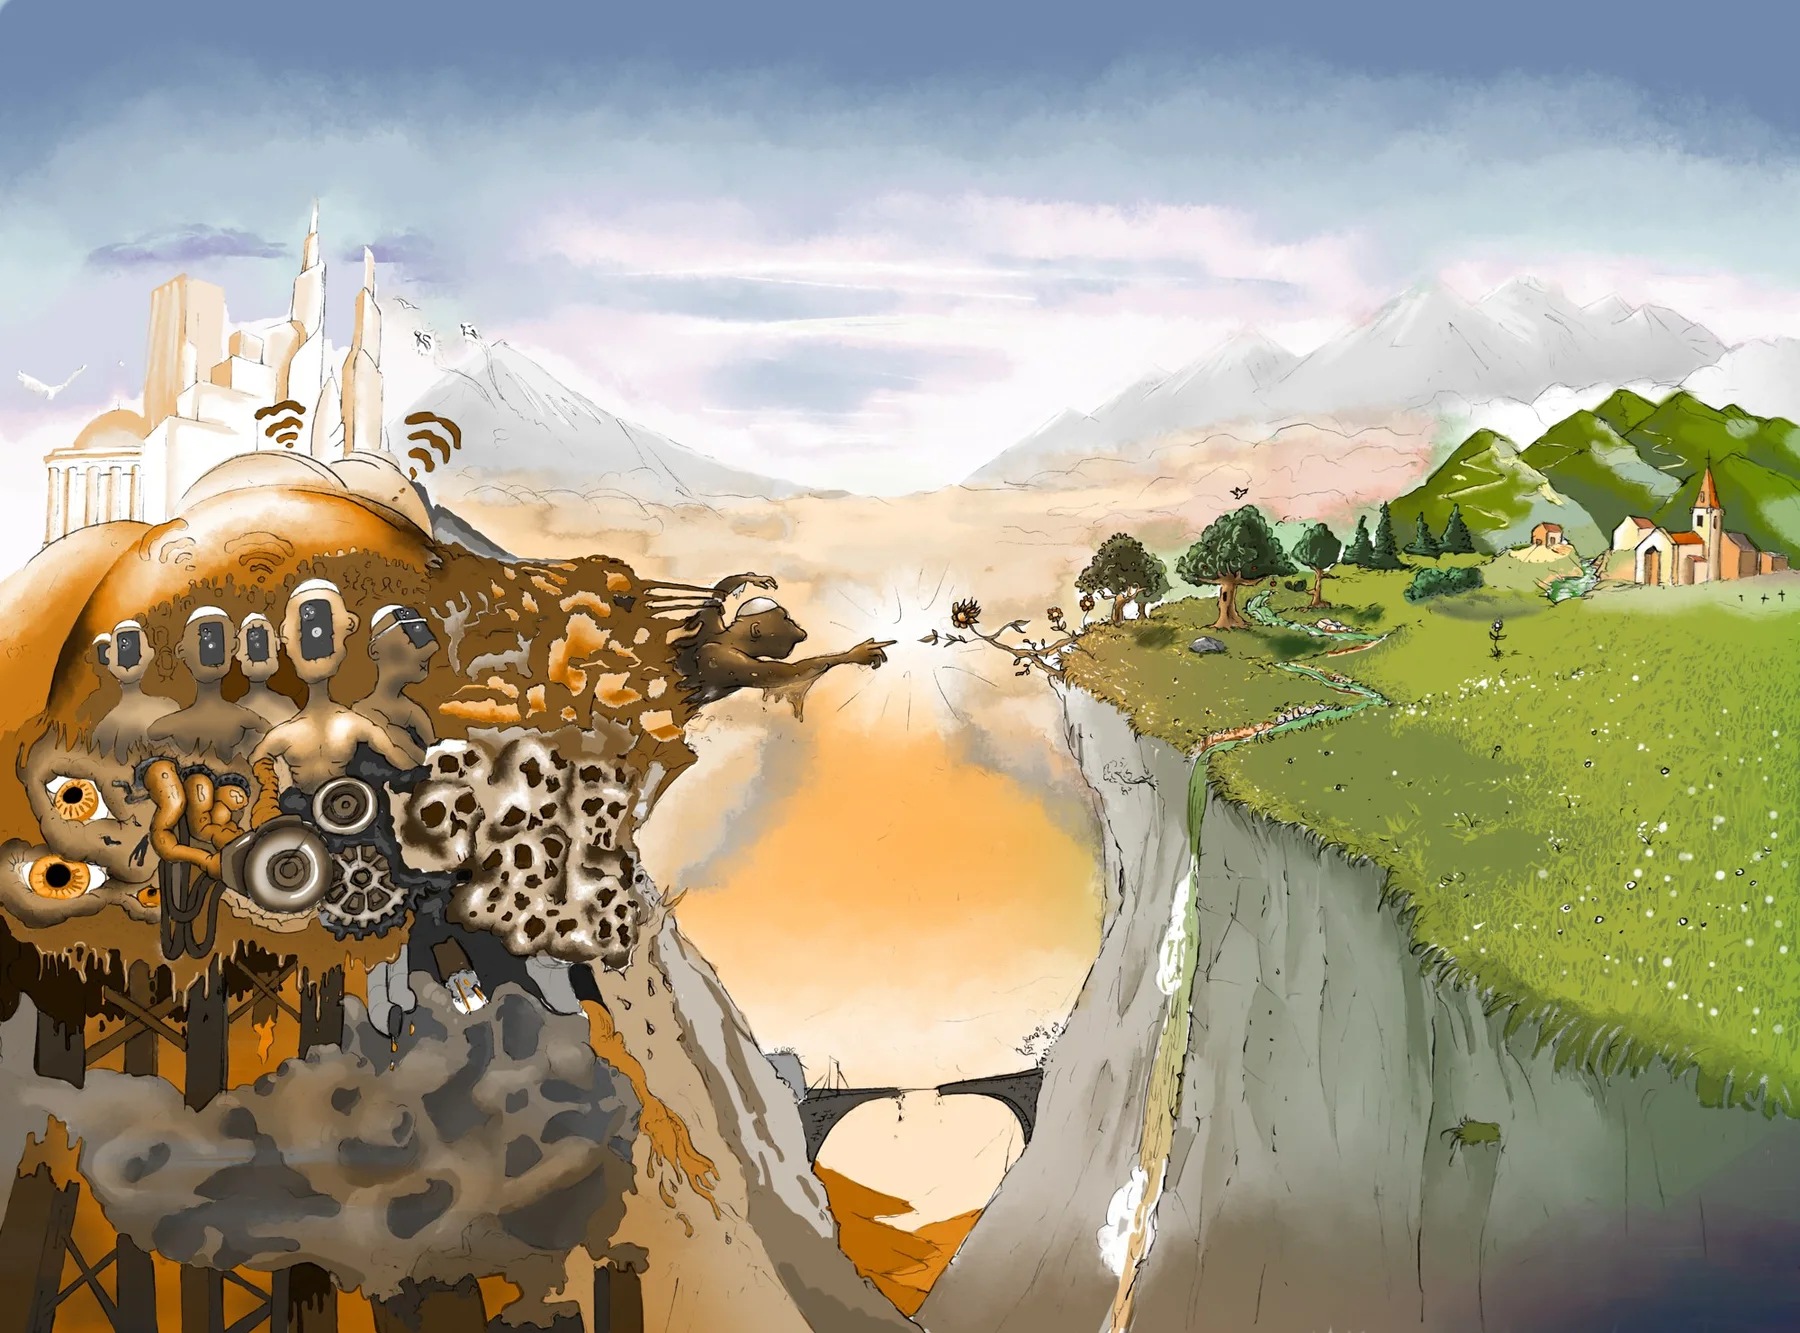
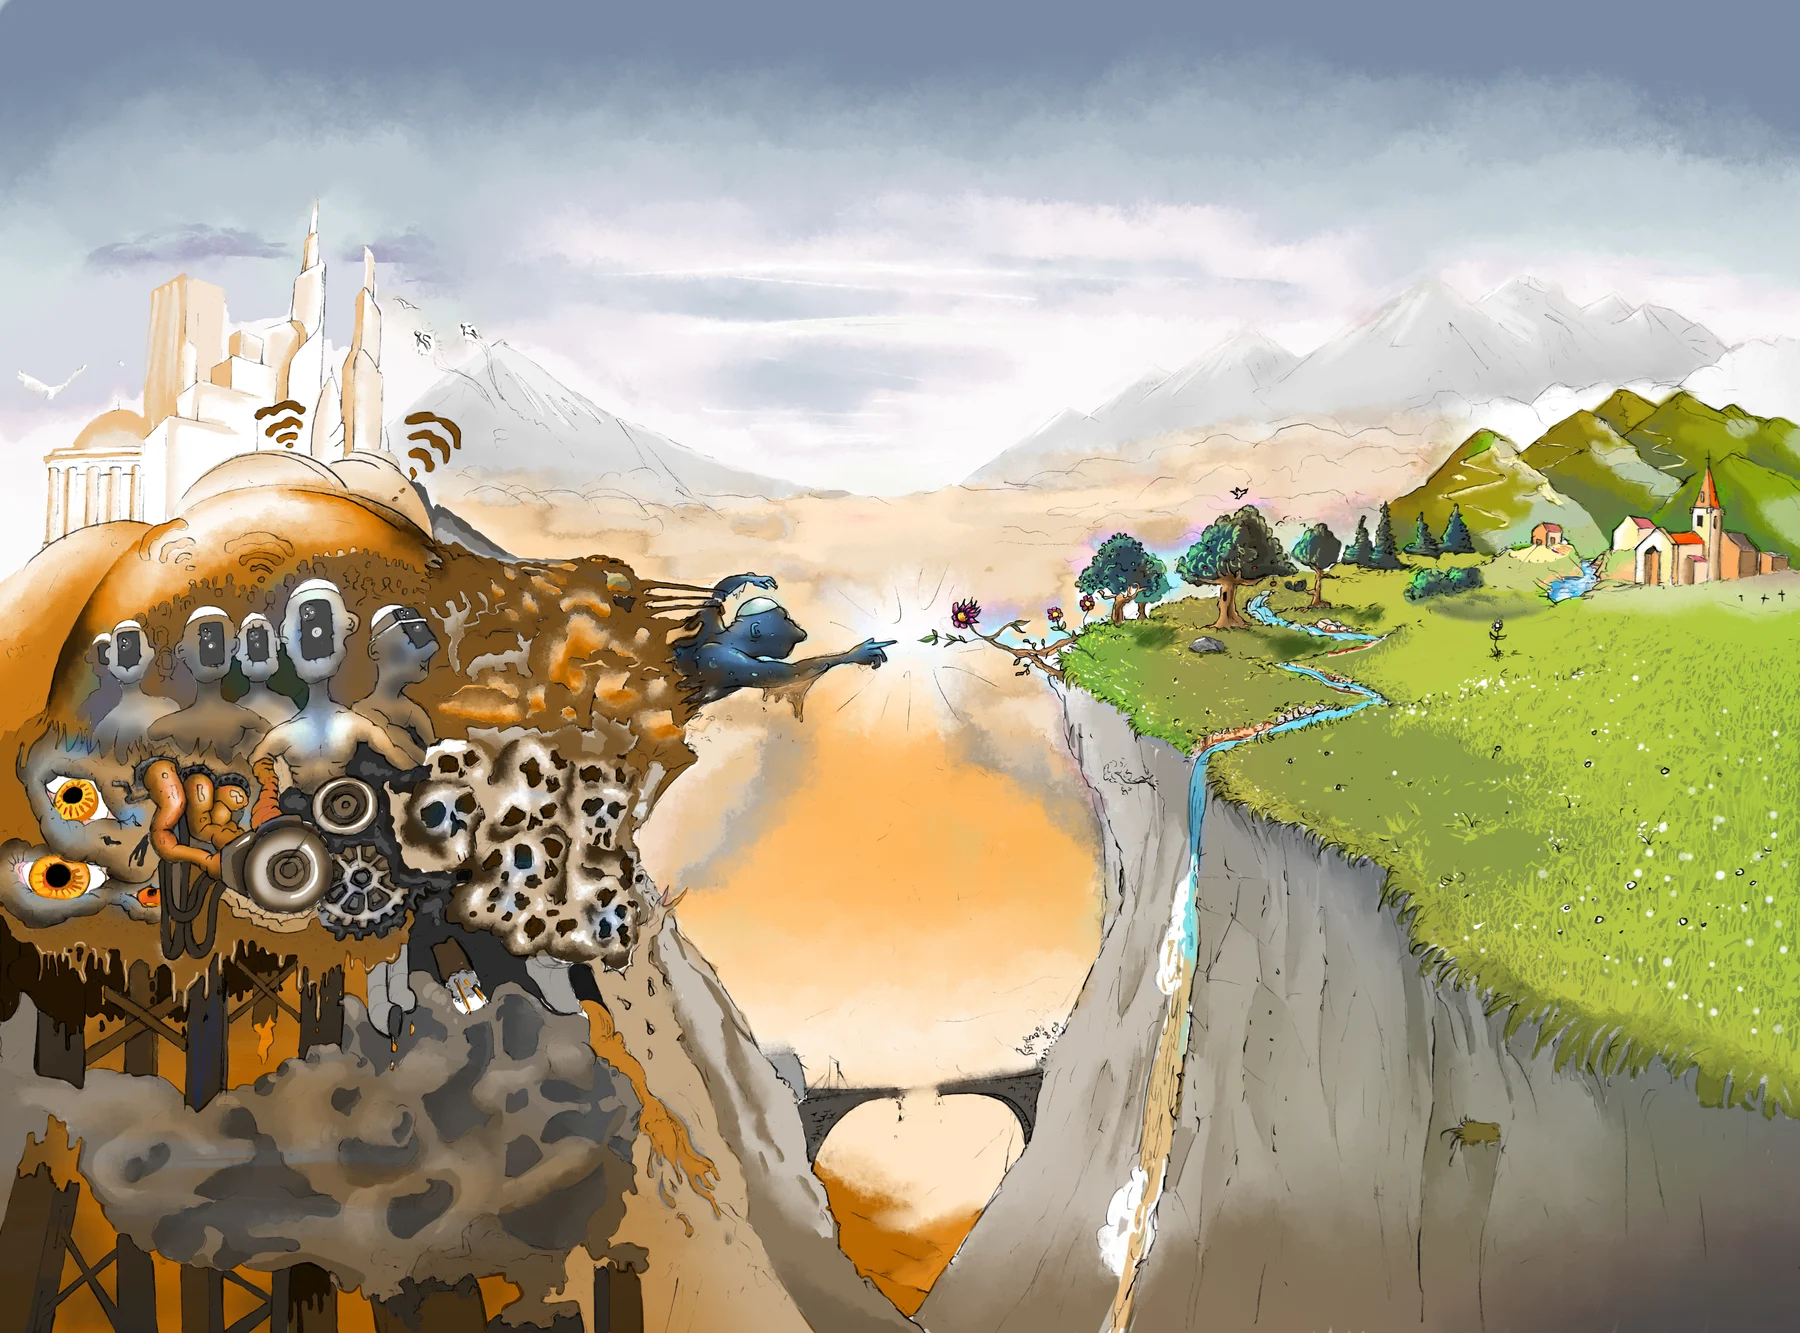
Résonance : l'état 8 devient l'illustration finale et principale
Claude-Session: https://claude.ai/code/session_01EfH84CtK9CaqmtxrTHsPjo

diff --git a/resonance.html b/resonance.html
@@ -263,16 +263,16 @@ h1,h2,h3{font-weight:600;letter-spacing:-.03em}
 <section id="dessin" class="chap"><div class="wrap">
   <div class="chap-head">
     <div><span class="num-big">01</span><h2>L’évolution du <span class="o">dessin</span></h2></div>
-    <p>Du crayon à l’illustration finale : dix états successifs du même dessin. Faites glisser le curseur — ou lancez la lecture.</p>
+    <p>Du crayon à l’illustration finale : neuf états successifs du même dessin. Faites glisser le curseur — ou lancez la lecture.</p>
   </div>
   <div class="evo" id="evo">
-    <div class="evo-stage" id="evoStage"><img src="pouget-assets/dessin/etape-00.webp" alt="Résonance, le croquis au crayon" width="1800" height="1333" class="on"><img src="pouget-assets/dessin/etape-01.webp" alt="Résonance, couleur · état 1" width="1800" height="1333" loading="lazy"><img src="pouget-assets/dessin/etape-02.webp" alt="Résonance, couleur · état 2" width="1800" height="1333" loading="lazy"><img src="pouget-assets/dessin/etape-03.webp" alt="Résonance, couleur · état 3" width="1800" height="1333" loading="lazy"><img src="pouget-assets/dessin/etape-04.webp" alt="Résonance, couleur · état 4" width="1800" height="1333" loading="lazy"><img src="pouget-assets/dessin/etape-05.webp" alt="Résonance, couleur · état 5" width="1800" height="1333" loading="lazy"><img src="pouget-assets/dessin/etape-06.webp" alt="Résonance, couleur · état 6" width="1800" height="1333" loading="lazy"><img src="pouget-assets/dessin/etape-07.webp" alt="Résonance, couleur · état 7" width="1800" height="1333" loading="lazy"><img src="pouget-assets/dessin/etape-08.webp" alt="Résonance, couleur · état 8" width="1800" height="1333" loading="lazy"><img src="pouget-assets/dessin/etape-09.webp" alt="Résonance, l’illustration finale" width="1800" height="1333" loading="lazy"></div>
+    <div class="evo-stage" id="evoStage"><img src="pouget-assets/dessin/etape-00.webp" alt="Résonance, le croquis au crayon" width="1800" height="1333" class="on"><img src="pouget-assets/dessin/etape-01.webp" alt="Résonance, couleur · état 1" width="1800" height="1333" loading="lazy"><img src="pouget-assets/dessin/etape-02.webp" alt="Résonance, couleur · état 2" width="1800" height="1333" loading="lazy"><img src="pouget-assets/dessin/etape-03.webp" alt="Résonance, couleur · état 3" width="1800" height="1333" loading="lazy"><img src="pouget-assets/dessin/etape-04.webp" alt="Résonance, couleur · état 4" width="1800" height="1333" loading="lazy"><img src="pouget-assets/dessin/etape-05.webp" alt="Résonance, couleur · état 5" width="1800" height="1333" loading="lazy"><img src="pouget-assets/dessin/etape-06.webp" alt="Résonance, couleur · état 6" width="1800" height="1333" loading="lazy"><img src="pouget-assets/dessin/etape-07.webp" alt="Résonance, couleur · état 7" width="1800" height="1333" loading="lazy"><img src="pouget-assets/dessin/etape-08.webp" alt="Résonance, l’illustration finale" width="1800" height="1333" loading="lazy"></div>
     <div class="evo-bar">
       <button type="button" class="evo-play" id="evoPlay" aria-label="Lire l’évolution">▶ Lire</button>
-      <input type="range" id="evoRange" min="0" max="9" step="1" value="0" aria-label="État du dessin">
+      <input type="range" id="evoRange" min="0" max="8" step="1" value="0" aria-label="État du dessin">
       <span class="evo-lab num" id="evoLab" aria-live="polite">Le croquis au crayon</span>
     </div>
-    <div class="evo-thumbs" id="evoThumbs"><button type="button" aria-label="Le croquis au crayon"><img src="pouget-assets/dessin/etape-00.webp" alt="" width="1800" height="1333" loading="lazy"></button><button type="button" aria-label="Couleur · état 1"><img src="pouget-assets/dessin/etape-01.webp" alt="" width="1800" height="1333" loading="lazy"></button><button type="button" aria-label="Couleur · état 2"><img src="pouget-assets/dessin/etape-02.webp" alt="" width="1800" height="1333" loading="lazy"></button><button type="button" aria-label="Couleur · état 3"><img src="pouget-assets/dessin/etape-03.webp" alt="" width="1800" height="1333" loading="lazy"></button><button type="button" aria-label="Couleur · état 4"><img src="pouget-assets/dessin/etape-04.webp" alt="" width="1800" height="1333" loading="lazy"></button><button type="button" aria-label="Couleur · état 5"><img src="pouget-assets/dessin/etape-05.webp" alt="" width="1800" height="1333" loading="lazy"></button><button type="button" aria-label="Couleur · état 6"><img src="pouget-assets/dessin/etape-06.webp" alt="" width="1800" height="1333" loading="lazy"></button><button type="button" aria-label="Couleur · état 7"><img src="pouget-assets/dessin/etape-07.webp" alt="" width="1800" height="1333" loading="lazy"></button><button type="button" aria-label="Couleur · état 8"><img src="pouget-assets/dessin/etape-08.webp" alt="" width="1800" height="1333" loading="lazy"></button><button type="button" aria-label="L’illustration finale"><img src="pouget-assets/dessin/etape-09.webp" alt="" width="1800" height="1333" loading="lazy"></button></div>
+    <div class="evo-thumbs" id="evoThumbs"><button type="button" aria-label="Le croquis au crayon"><img src="pouget-assets/dessin/etape-00.webp" alt="" width="1800" height="1333" loading="lazy"></button><button type="button" aria-label="Couleur · état 1"><img src="pouget-assets/dessin/etape-01.webp" alt="" width="1800" height="1333" loading="lazy"></button><button type="button" aria-label="Couleur · état 2"><img src="pouget-assets/dessin/etape-02.webp" alt="" width="1800" height="1333" loading="lazy"></button><button type="button" aria-label="Couleur · état 3"><img src="pouget-assets/dessin/etape-03.webp" alt="" width="1800" height="1333" loading="lazy"></button><button type="button" aria-label="Couleur · état 4"><img src="pouget-assets/dessin/etape-04.webp" alt="" width="1800" height="1333" loading="lazy"></button><button type="button" aria-label="Couleur · état 5"><img src="pouget-assets/dessin/etape-05.webp" alt="" width="1800" height="1333" loading="lazy"></button><button type="button" aria-label="Couleur · état 6"><img src="pouget-assets/dessin/etape-06.webp" alt="" width="1800" height="1333" loading="lazy"></button><button type="button" aria-label="Couleur · état 7"><img src="pouget-assets/dessin/etape-07.webp" alt="" width="1800" height="1333" loading="lazy"></button><button type="button" aria-label="L’illustration finale"><img src="pouget-assets/dessin/etape-08.webp" alt="" width="1800" height="1333" loading="lazy"></button></div>
   </div>
 </div></section>
 
@@ -348,7 +348,7 @@ h1,h2,h3{font-weight:600;letter-spacing:-.03em}
 <script>
 (function(){
   /* Évolution du dessin */
-  var L=["Le croquis au crayon", "Couleur · état 1", "Couleur · état 2", "Couleur · état 3", "Couleur · état 4", "Couleur · état 5", "Couleur · état 6", "Couleur · état 7", "Couleur · état 8", "L’illustration finale"], imgs=[].slice.call(document.querySelectorAll('#evoStage img')), rg=document.getElementById('evoRange'),
+  var L=["Le croquis au crayon", "Couleur · état 1", "Couleur · état 2", "Couleur · état 3", "Couleur · état 4", "Couleur · état 5", "Couleur · état 6", "Couleur · état 7", "L’illustration finale"], imgs=[].slice.call(document.querySelectorAll('#evoStage img')), rg=document.getElementById('evoRange'),
       lab=document.getElementById('evoLab'), pb=document.getElementById('evoPlay'), tb=[].slice.call(document.querySelectorAll('#evoThumbs button')), timer=null;
   function setE(k){ imgs.forEach(function(im,n){im.classList.toggle('on',n===k);}); rg.value=k; lab.textContent=L[k];
     tb.forEach(function(b,n){b.setAttribute('aria-current',n===k?'true':'false');}); }
